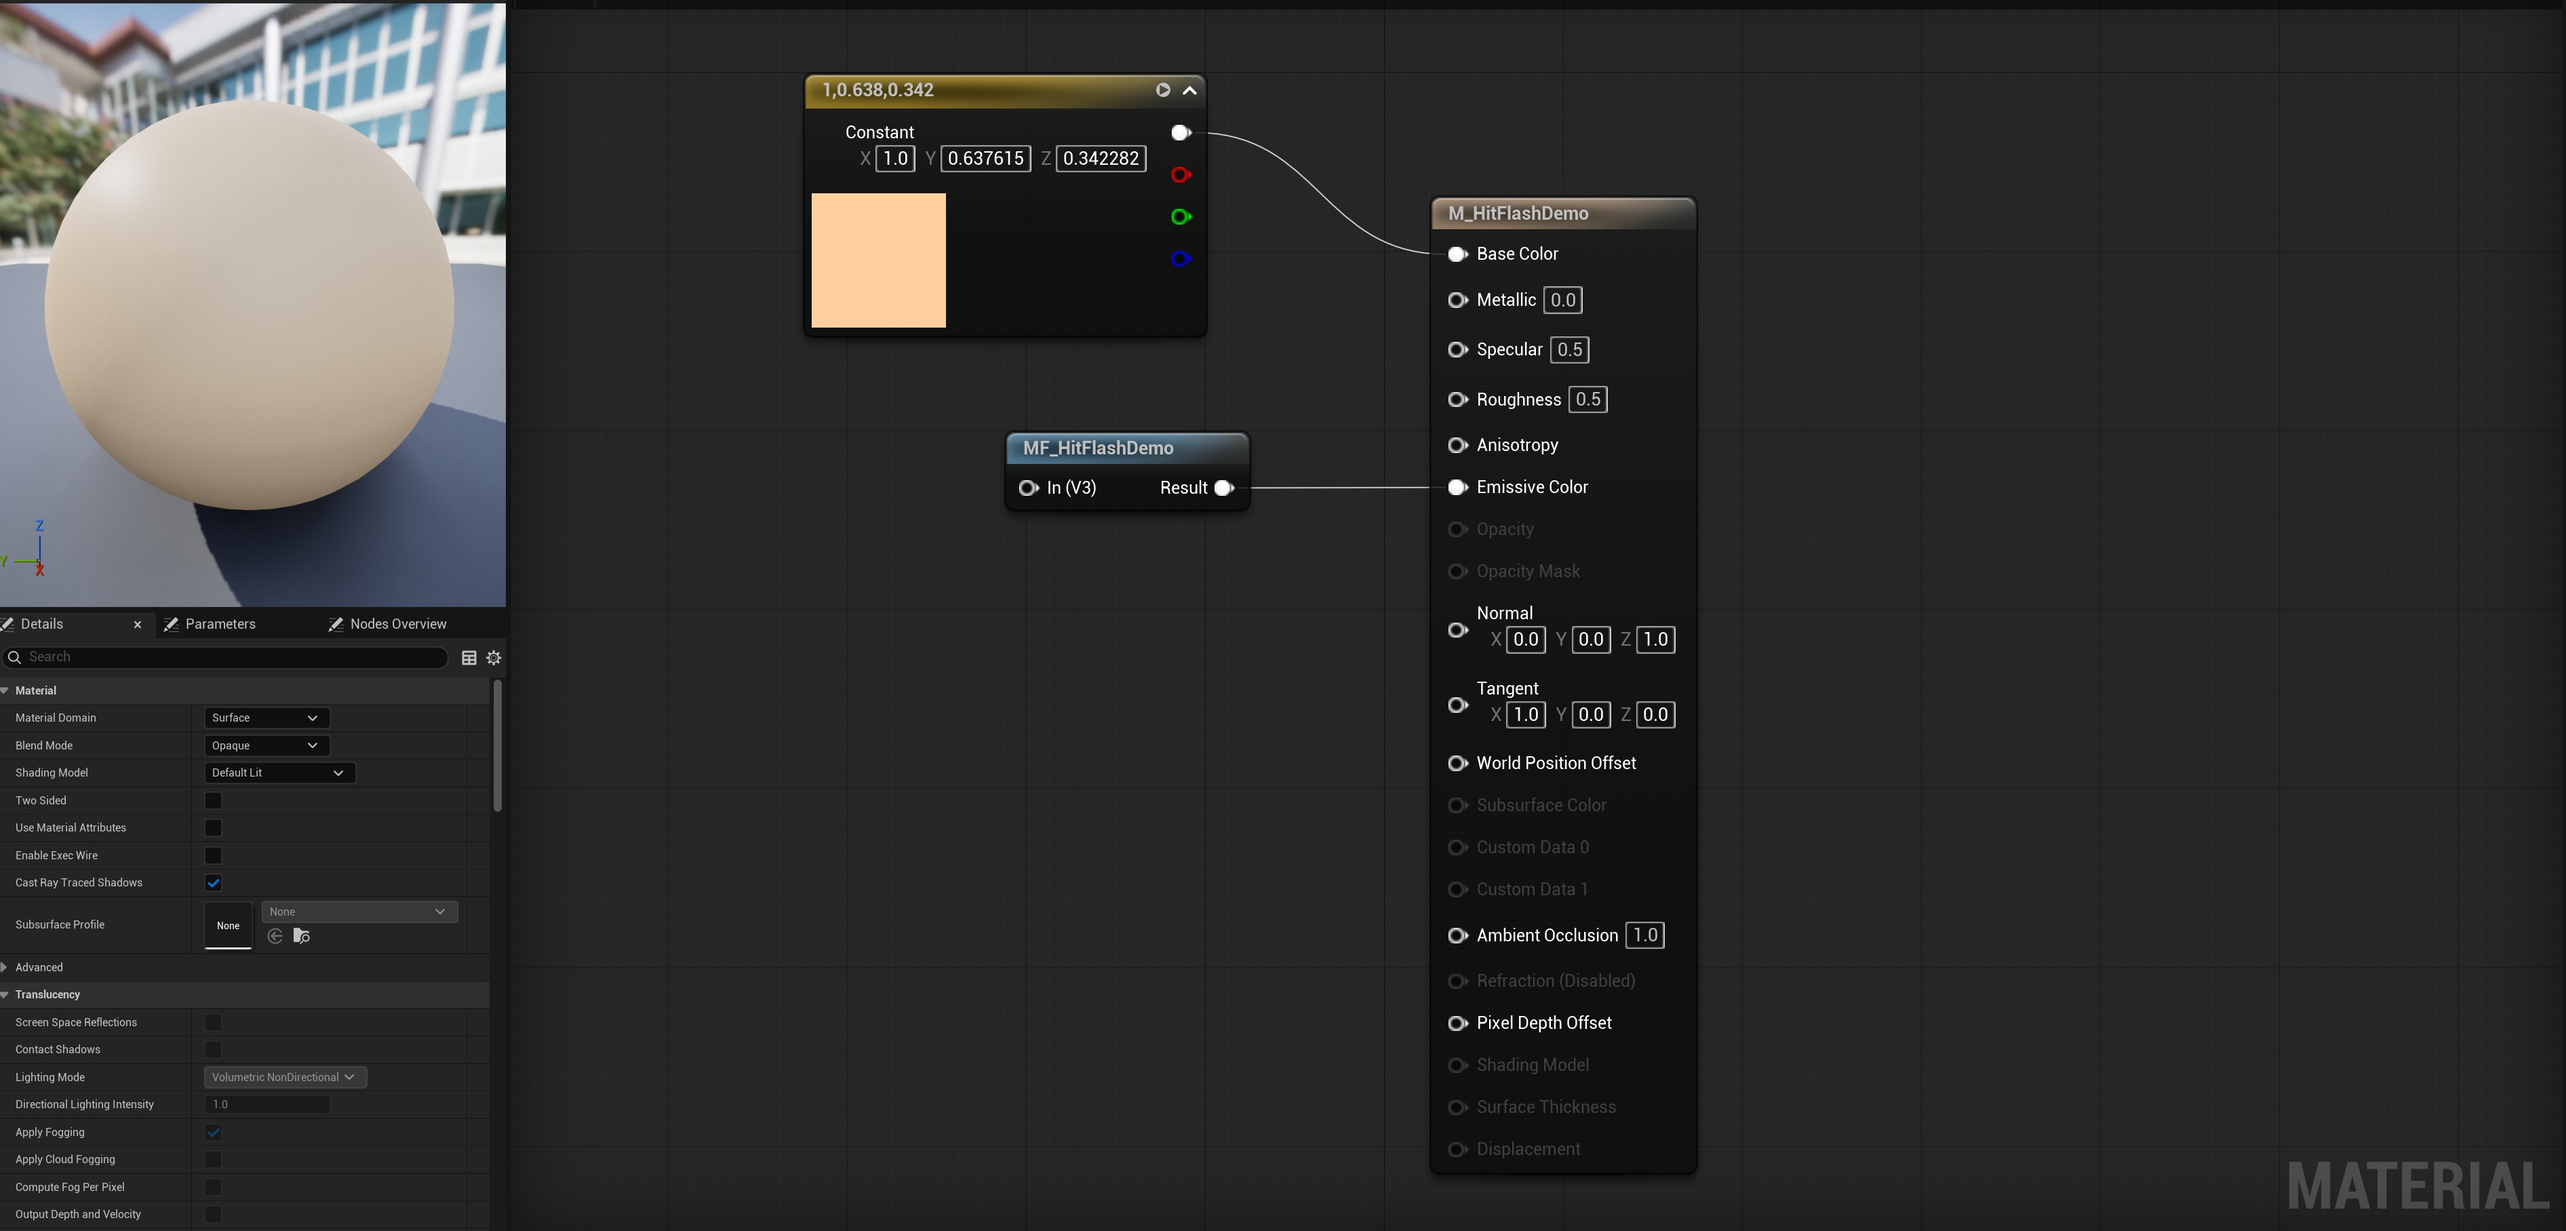
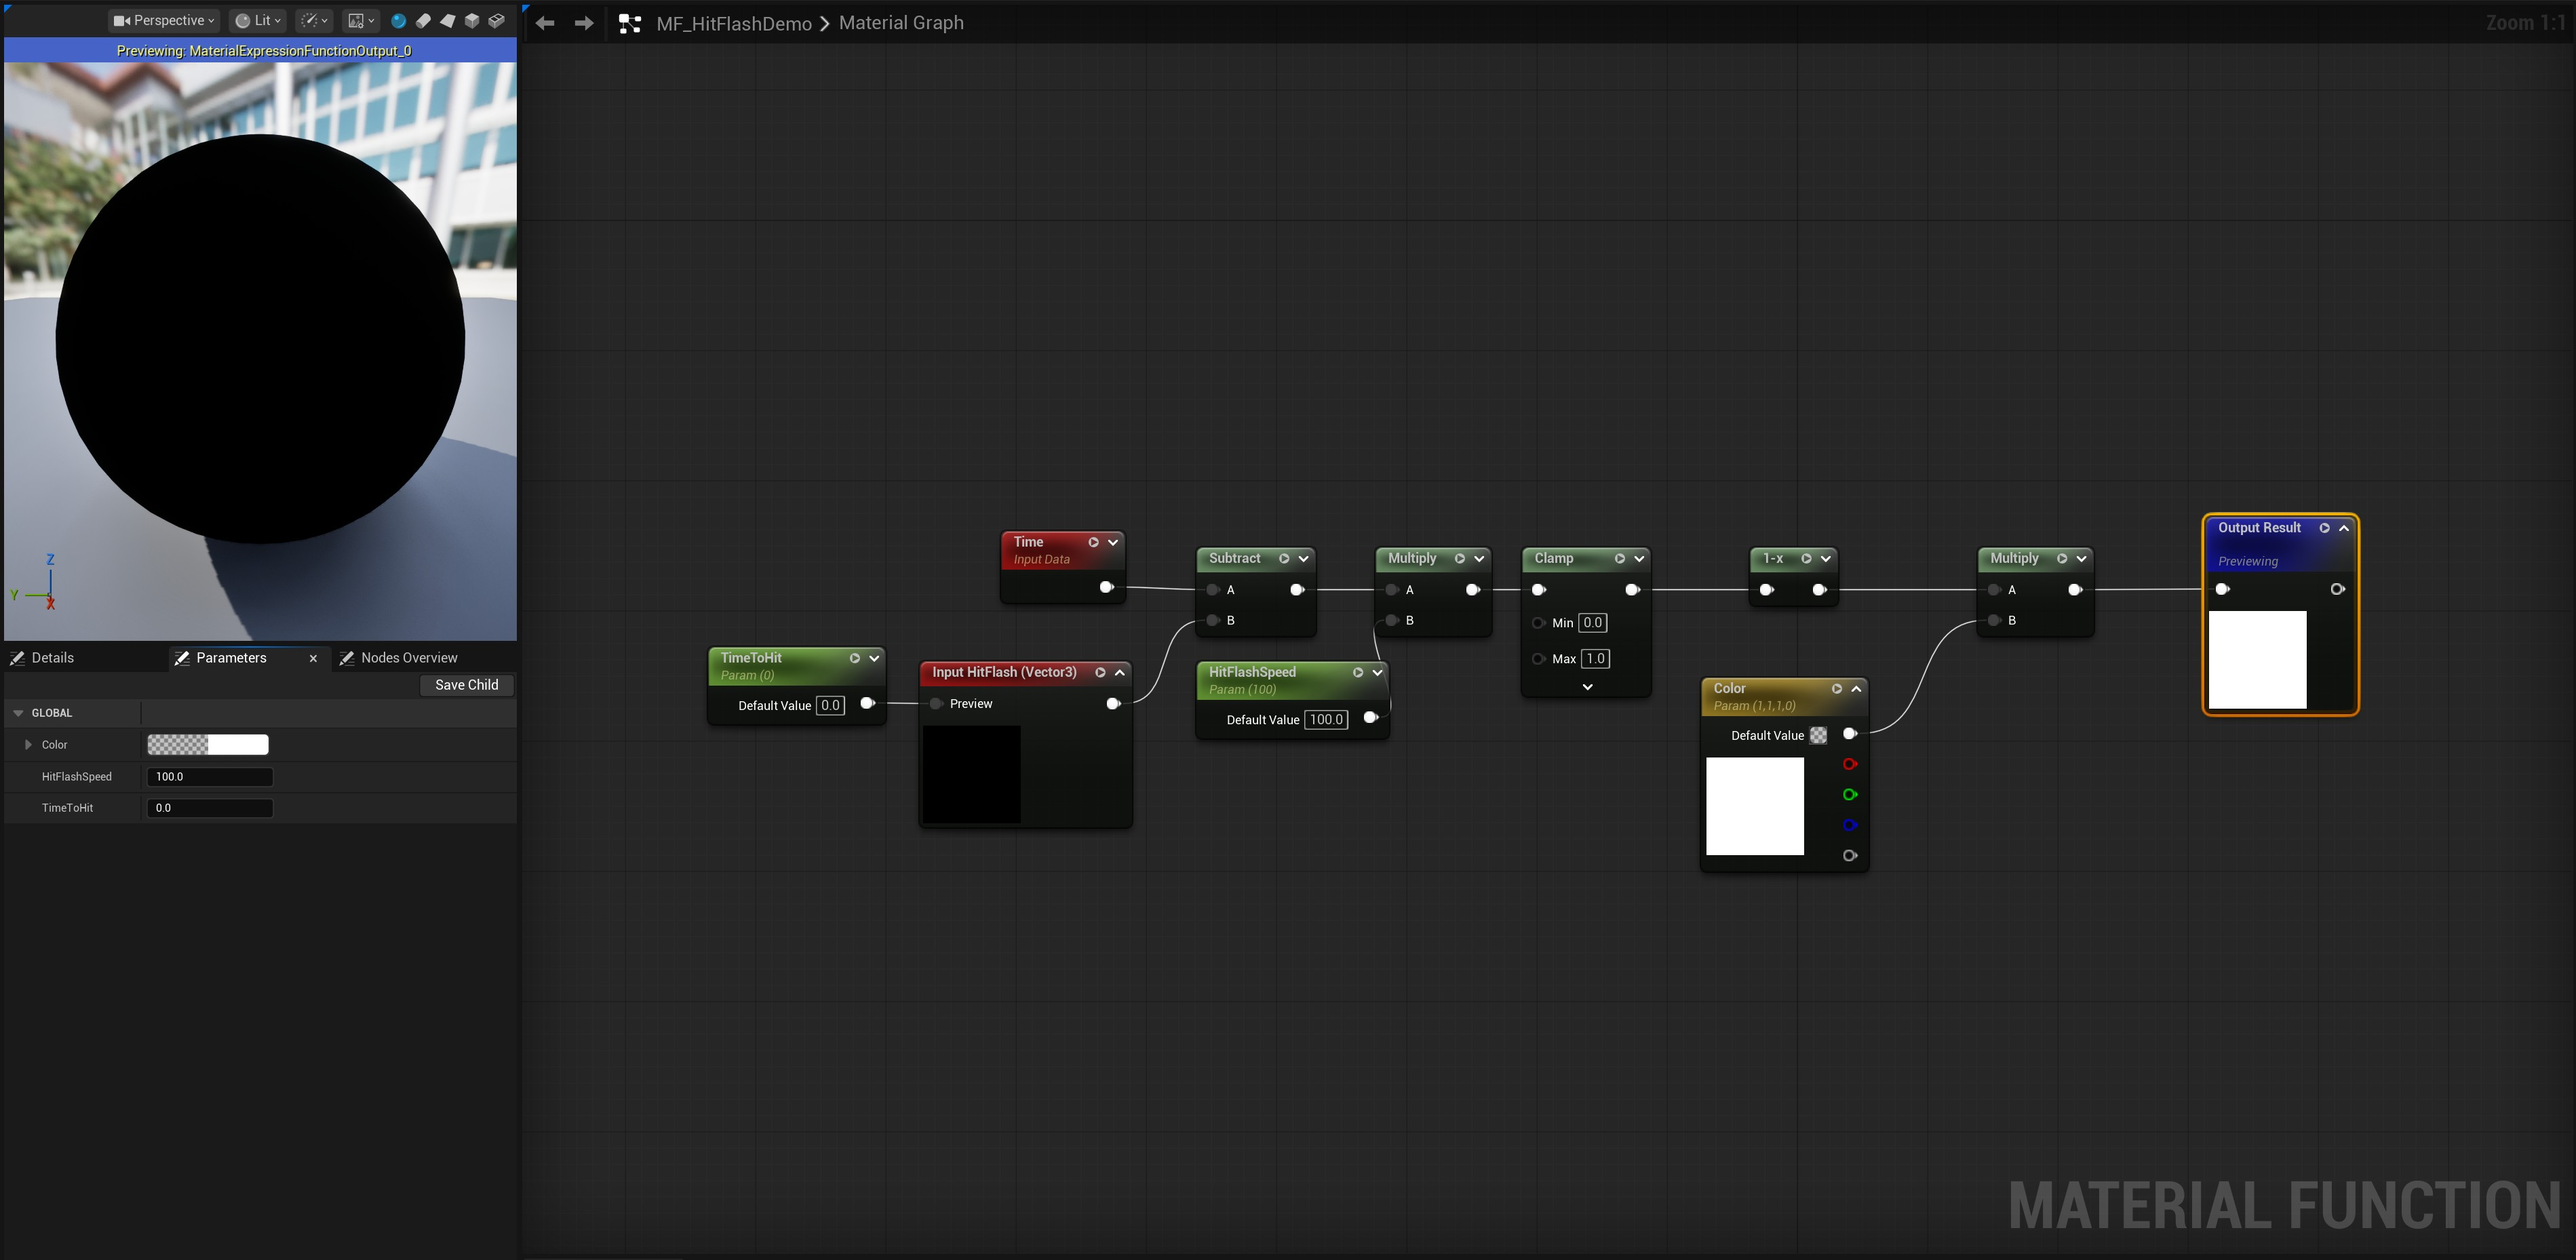
[Update] Tweekable speed and color parameters

diff --git a/Source/TomLoomanCourse/Public/SCharacter.h b/Source/TomLoomanCourse/Public/SCharacter.h
@@ -57,12 +57,20 @@ protected:
 	USAttributesComponent* AttributesComponent;
 
 	/// ---------- Other configs -------------- ////
-	UPROPERTY(VisibleAnywhere, BlueprintReadOnly, Category= "Config | Materials")
+	UPROPERTY(VisibleAnywhere, BlueprintReadOnly, Category= "Config | Materials | Flash")
 	FName Parameter_TimeToHit = "TimeToHit";
 	
-	UPROPERTY(VisibleAnywhere, BlueprintReadOnly, Category= "Config | Materials")
+	UPROPERTY(VisibleAnywhere, BlueprintReadOnly, Category= "Config | Materials | Flash")
 	FName Parameter_HitFlashSpeed = "HitFlashSpeed";
 	
+	UPROPERTY(EditAnywhere, BlueprintReadWrite, Category= "Config | Materials | Flash")
+	float Speed = 4.0f;
+
+	UPROPERTY(VisibleAnywhere, BlueprintReadOnly, Category= "Config | Materials | Flash")
+	FName Parameter_Color = "Color";
+	
+	UPROPERTY(EditAnywhere, BlueprintReadWrite, Category= "Config | Materials | Flash")
+	FColor Color = FColor::Red;
 	
 	// -------- Enhanced Input Actions --------
 

diff --git a/Source/TomLoomanCourse/Private/SCharacter.cpp b/Source/TomLoomanCourse/Private/SCharacter.cpp
@@ -180,7 +180,8 @@ void ASCharacter::HandleHealthChanged(AActor* InstigatorActor, USAttributesCompo
 	if (USkeletalMeshComponent* CharacterMesh = GetMesh())
 	{
 		CharacterMesh->SetScalarParameterValueOnMaterials(Parameter_TimeToHit, GetWorld()->TimeSeconds);
-		CharacterMesh->SetScalarParameterValueOnMaterials(Parameter_HitFlashSpeed, 4.0);
+		CharacterMesh->SetScalarParameterValueOnMaterials(Parameter_HitFlashSpeed, Speed);
+		CharacterMesh->SetColorParameterValueOnMaterials(Parameter_Color, Color);
 	}
 }
 
